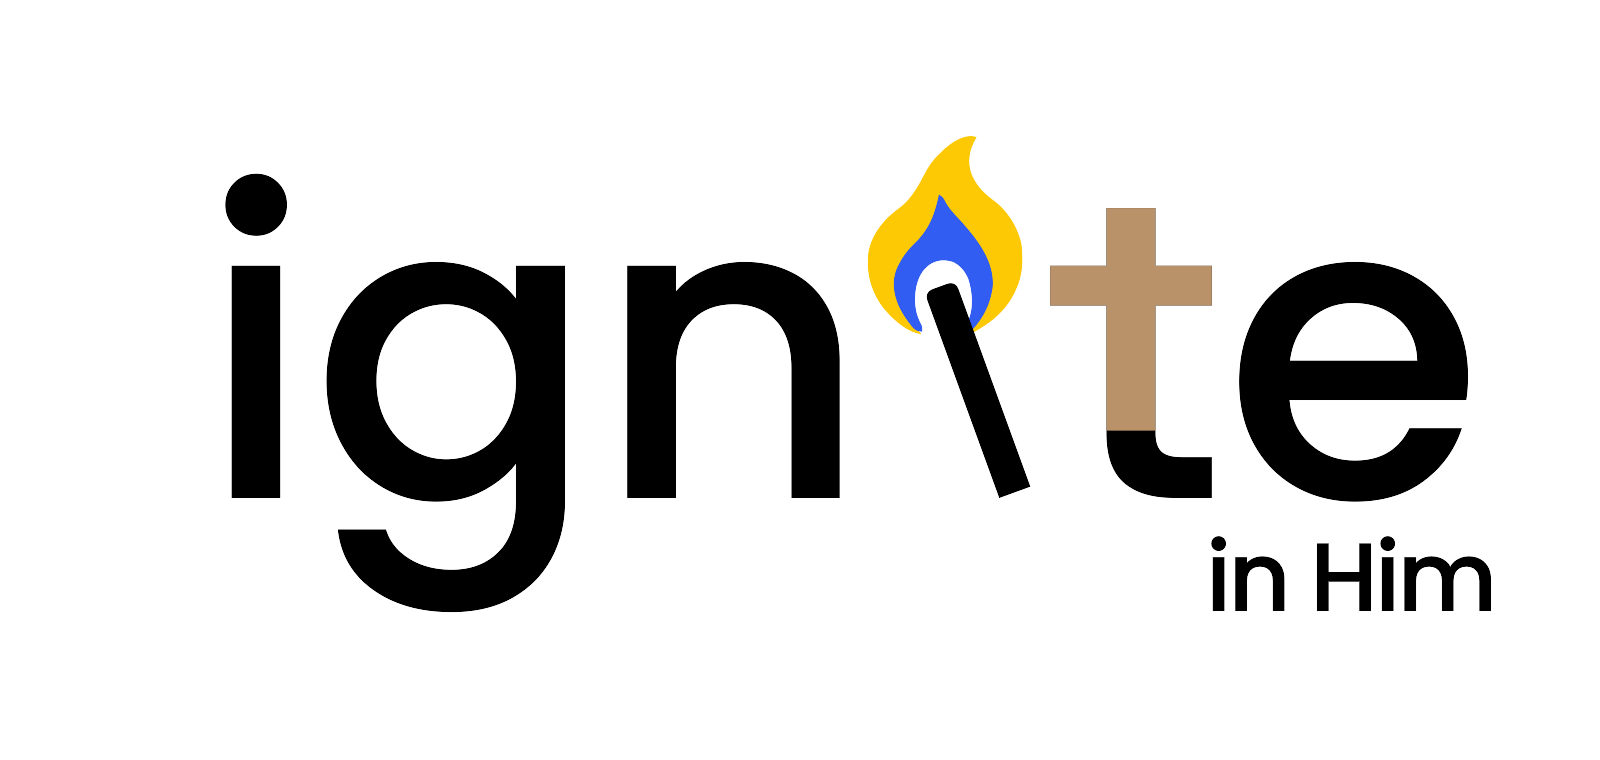
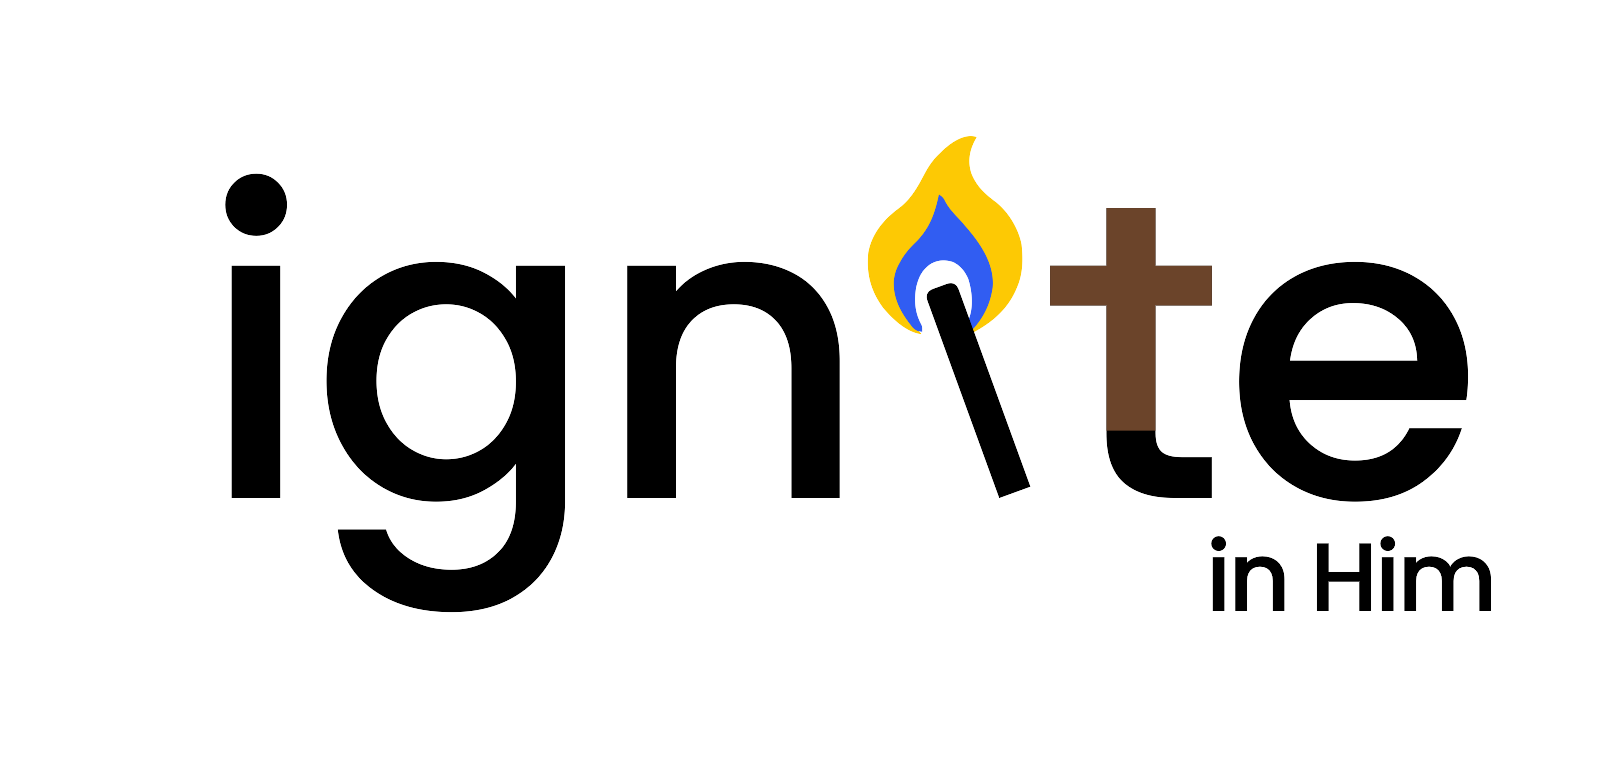
Change cross color to dark brown

Changed region(s): [[0.6562, 0.2724, 0.7812, 0.575]]

diff --git a/final/brand/explorations/matchstick-i-cross/README.md b/final/brand/explorations/matchstick-i-cross/README.md
@@ -1,7 +1,7 @@
 # Cross-shaped t explorations
 
-Revised to follow the supplied hand-drawn reference. Areas marked red in the sketch retain the original black (#000000); the dark cross area becomes light brown (#B9926A).
+Revised to follow the supplied hand-drawn reference. Areas marked red in the sketch retain the original black (#000000); the dark cross area becomes dark brown (#6B442A).
 
-The t retains its curved black foot. Its upper stem and balanced horizontal arms form the light-brown cross, which reaches the outer edges of the letter without a black inset frame.
+The t retains its curved black foot. Its upper stem and balanced horizontal arms form the dark-brown cross, which reaches the outer edges of the letter without a black inset frame.
 
 The original layout and both matchstick-i alternatives are included as self-contained SVGs and transparent PNGs. `ignite-logo-cross-comparison.png` shows all three. Approved brand assets, website, slides, and the no-cross comparison are unchanged.
